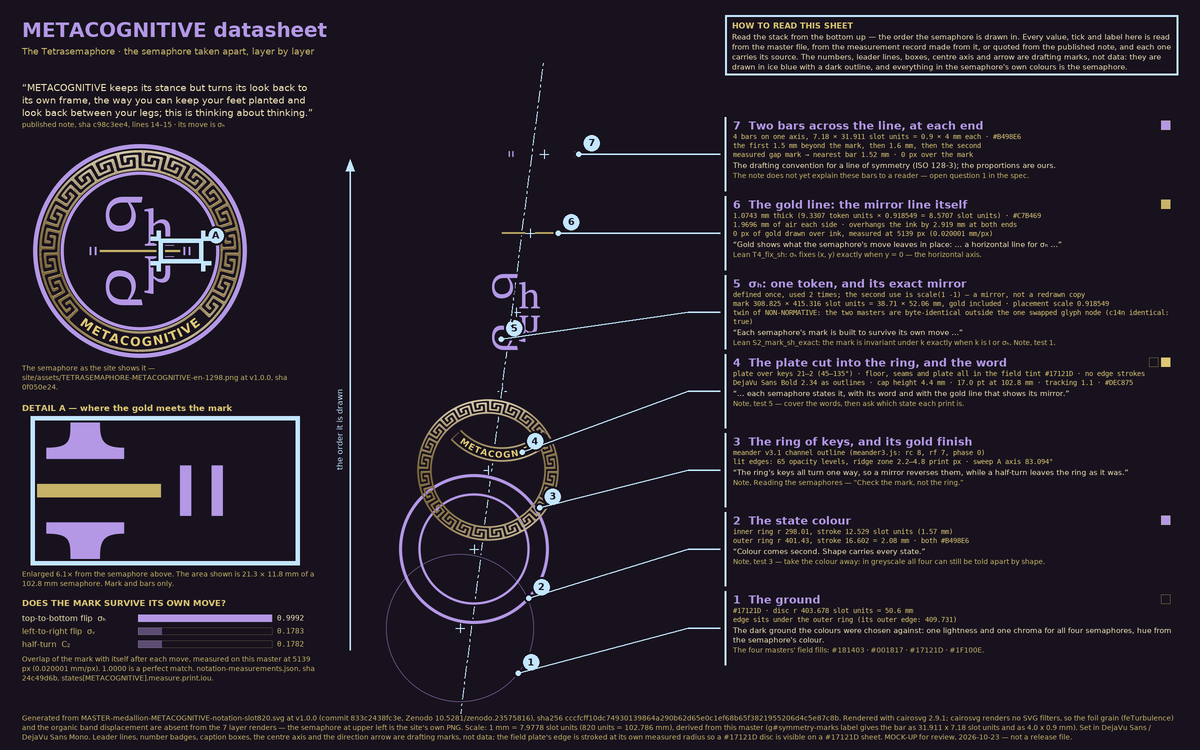
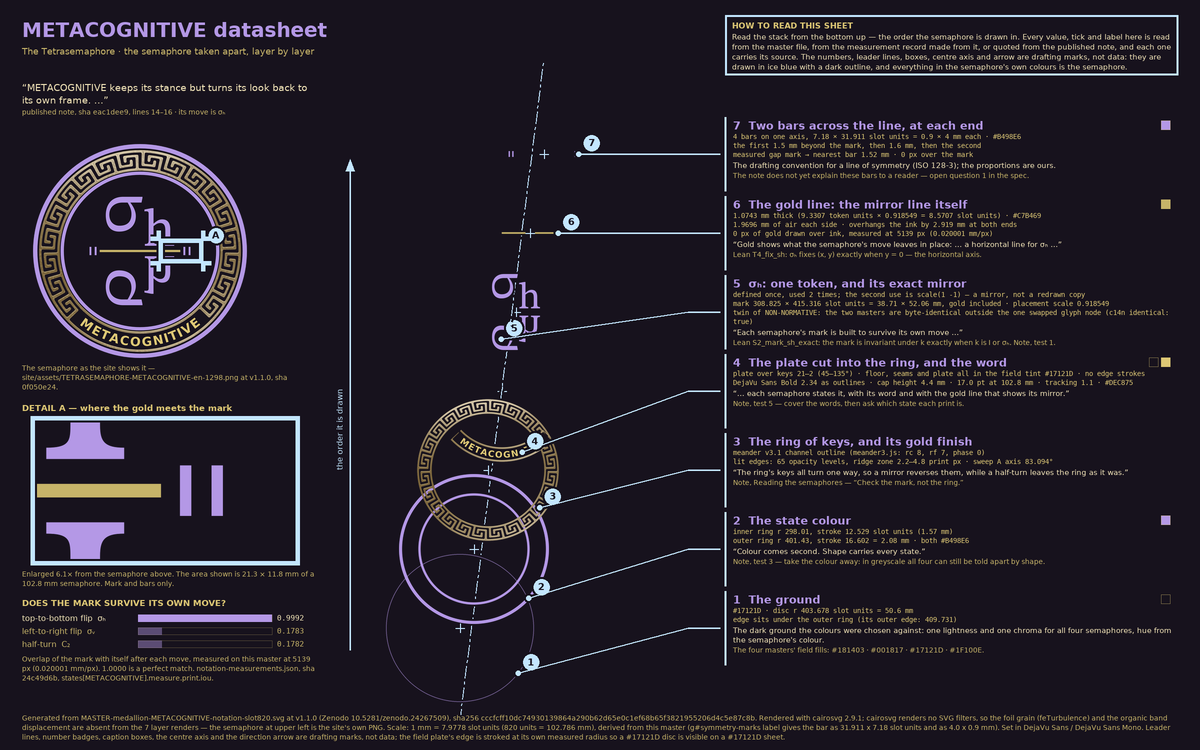
release: Tetrasemaphore 1.1.0 — three approved lines, four datasheets, toolchain
The three body-route lines Carey approved on 6 November, applied to README.md,
site/index.html and site/note.html. The audit behind them: across the three
deployed pages 29 sentences put a body in motion and none claimed a benefit from
the movement, so nothing was faddish — but the routes offered were body 29,
paper and print 27, mind 3, and the only sentence naming the mind put it second.

The METACOGNITIVE sentence no longer ends "this is thinking about thinking",
whose "this" could be read as making the posture itself the cognitive act.

The four datasheets rebuilt against the changed note and installed as release
files: 116 strings provenance-checked with no faults, 29 quotation spans with no
punctuation faults, no text overlaps, nothing outside the canvas.

The METACOGNITIVE standfirst is elided on the sheet and whole in the record, as
DATASHEET_SPEC.md section 2 requires and as Carey ruled ("short on the sheet,
full in the record"). The gate is unchanged: the unelided sentence is what is
looked up in the published note and the build still stops if it is absent. The
audit JSON carries both, under text and unelided.

A sheet now calls itself a release file only when it carries a release DOI, and
prints the mock-up line otherwise, so the claim cannot be made before it is true.

Generation dates are labelled (UTC), because the repository dates releases by
the Los Angeles day: 1.0.0's Zenodo record was created 2026-10-23T02:12:31Z,
[…]

Changed region(s): [[0.0308, 0.9507, 0.9867, 1.0], [0.0308, 0.1227, 0.2467, 0.184]]

diff --git a/site/index.html b/site/index.html
@@ -384,12 +384,12 @@ table.cay th{color:var(--gold);font-weight:400}
   <h2>The Tetrasemaphore in one paragraph</h2>
   <p class="lede">The Tetrasemaphore is four semaphores that mark how a piece of work stands: <strong>NORMATIVE</strong>, <strong>NON-NORMATIVE</strong>, <strong>METACOGNITIVE</strong> or <strong>CRITICAL</strong>. Each state is a move of a flat picture, and each semaphore carries a mark built to survive its own move, written in the symbols chemists and mathematicians already use for symmetry. Every claim it makes can be checked with your body, a pen and paper, a phone, a printer, a proof checker or a friend, and the one question still open, whether it helps people think about their thinking, can be tested.</p>
   <p class="aim">The aim of the whole project is to point at some mathematics that was always there, for each reader to check for themselves and think with. It asks no one to take on or give up a belief.</p>
-  <p>People picked up the abacus, then the calculator. Some abacus users learned to put it down and move the beads in their heads. The four moves are meant to be learned the same way: first with your body or a scrap of paper, then in your mind. Whether that helps is what the tests are for.</p>
+  <p>People picked up the abacus, then the calculator. Some abacus users learned to put it down and move the beads in their heads. The four moves can be learned in your mind, with a scrap of paper, or with your body, and most people end up using all three. Whichever you start with, the other two are how you check it. Whether that helps is what the tests are for.</p>
 </section>
 
 <section id="what-it-is">
   <h2>What it is</h2>
-  <p>The Tetrasemaphore is an attempt to teach people to think about their thinking. It asks two yes-or-no questions of any piece of thinking. Is it looking at its object, or back at its own frame: the premises, method and assumptions it judges from? And does it keep its stance toward the standard, or reverse that stance, the way a mirror reverses left and right? Two yes-or-no questions have exactly four answers. <strong>NORMATIVE</strong> keeps its stance and looks at its object: what has been tested and holds, for now. <strong>NON-NORMATIVE</strong> mirrors its stance and looks at its object: exploration that stands alongside the standard without claiming to replace it. <strong>METACOGNITIVE</strong> keeps its stance but turns its look back to its own frame, the way you can keep your feet planted and look back between your legs; this is thinking about thinking. <strong>CRITICAL</strong> does both at once: it turns over the framework a claim rests on, treating every baseline assumption as possibly wrong. The Tetrasemaphore proposes holding two questions about any piece of thinking as two mirrors at a right angle, so that changing your stance or your focus becomes a move you can see, make and undo. In a flat picture the same four answers are four moves: leave it alone (I), flip it left to right (&sigma;&#7525;), flip it top to bottom (&sigma;&#8341;), or turn it half way round (C&#8322;), which is both flips at once. NORMATIVE is <code>I</code>, NON-NORMATIVE is <code>&sigma;&#7525;</code>, METACOGNITIVE is <code>&sigma;&#8341;</code> and CRITICAL is <code>C&#8322;</code>. The moves and their symbols were part of mathematics long before this project, and the semaphores point at them. That's what we do when we discover math: honor finally what is. Psychology has met this structure before: Jean Piaget held that formal reasoning uses four transformations that combine exactly as these four moves do (his INRC group; Inhelder &amp; Piaget 1958). Each semaphore's mark is built to survive its own move: the <code>&sigma;&#7525;</code> mark only the left-right flip, the <code>&sigma;&#8341;</code> mark only the top-bottom flip, the <code>C&#8322;</code> mark only the half-turn, and the <code>I</code> mark, whose move changes nothing, every move.</p>
+  <p>The Tetrasemaphore is an attempt to teach people to think about their thinking. It asks two yes-or-no questions of any piece of thinking. Is it looking at its object, or back at its own frame: the premises, method and assumptions it judges from? And does it keep its stance toward the standard, or reverse that stance, the way a mirror reverses left and right? Two yes-or-no questions have exactly four answers. <strong>NORMATIVE</strong> keeps its stance and looks at its object: what has been tested and holds, for now. <strong>NON-NORMATIVE</strong> mirrors its stance and looks at its object: exploration that stands alongside the standard without claiming to replace it. <strong>METACOGNITIVE</strong> keeps its stance but turns its look back to its own frame. You can picture that, or keep your feet planted and look back between your legs; the move is the same either way, and the move is what thinking about thinking means here. <strong>CRITICAL</strong> does both at once: it turns over the framework a claim rests on, treating every baseline assumption as possibly wrong. The Tetrasemaphore proposes holding two questions about any piece of thinking as two mirrors at a right angle, so that changing your stance or your focus becomes a move you can see, make and undo. In a flat picture the same four answers are four moves: leave it alone (I), flip it left to right (&sigma;&#7525;), flip it top to bottom (&sigma;&#8341;), or turn it half way round (C&#8322;), which is both flips at once. NORMATIVE is <code>I</code>, NON-NORMATIVE is <code>&sigma;&#7525;</code>, METACOGNITIVE is <code>&sigma;&#8341;</code> and CRITICAL is <code>C&#8322;</code>. The moves and their symbols were part of mathematics long before this project, and the semaphores point at them. That's what we do when we discover math: honor finally what is. Psychology has met this structure before: Jean Piaget held that formal reasoning uses four transformations that combine exactly as these four moves do (his INRC group; Inhelder &amp; Piaget 1958). Each semaphore's mark is built to survive its own move: the <code>&sigma;&#7525;</code> mark only the left-right flip, the <code>&sigma;&#8341;</code> mark only the top-bottom flip, the <code>C&#8322;</code> mark only the half-turn, and the <code>I</code> mark, whose move changes nothing, every move.</p>
   <p>The semaphores are for naming the state of your own thinking, not for labelling anyone else's. That doesn't mean people can't be read: we read each other every day, better than chance for some things and only barely for others, such as lies, and we misread ourselves too. What turns either kind of reading into a measurement is knowing how often it is wrong. This starts with you, and it is meant for everyone.</p>
   <details class="sources-fold">
     <summary>Sources for this section</summary>
@@ -466,7 +466,7 @@ table.cay th{color:var(--gold);font-weight:400}
 
 <section id="how-to-test-it">
   <h2>How to test it</h2>
-  <p>Every claim here can be checked by someone who does not trust us. Each check below says what it needs, and the first two need nothing but your body, or a pen and a scrap of paper. If turning or bending is hard, the pen-and-paper check makes the same moves. <strong>With your body:</strong> have someone stand in front of you and watch your head. Stand as you are, and nothing changes (I). Turn around: to them, your left and right swap, and your top stays on top (&sigma;&#7525;). Face them, bend over and look between your legs: your top and bottom swap, and your left and right stay put (&sigma;&#8341;). A handstand is the same move. Turn around, then look between your legs: both swap, and you are looking back at where you started, upside down (C&#8322;). Each move is its own way back, and any two of the last three make the other. The two moves are the two questions, done with the body: turning around reverses the way you face, as NON-NORMATIVE reverses its stance toward the standard, and looking back between your legs turns your view away from what is in front of you and back past yourself, as METACOGNITIVE turns from its object back to its own frame. <strong>With a pen and paper:</strong> write the letters <code>I</code>, <code>A</code>, <code>D</code> and <code>N</code> in block capitals, hold the page up to a window, and turn it over side to side, then top to bottom, then spin it half way round, each time from the start. <code>I</code> survives every move, <code>A</code> only the side-to-side turn, <code>D</code> only the top-to-bottom turn, and <code>N</code> only the half-turn: the same four as the semaphores. <strong>With a printer or a phone:</strong> <a href="#coins">print the semaphores</a> or open them on a screen, look only at the mark in the middle, and flip and turn each one. Switch the screen to greyscale, and the four still differ by shape alone. <strong>With a computer:</strong> the algebra is machine-checked in the <a href="https://github.com/IT-Help-San-Diego/tetrasemaphore/tree/main/proofs">Lean proof assistant</a>, with a script that runs under bash, wherever Lean is installed, and a report on what the proofs cover and what they do not: they cover the algebra, not the artwork. <strong>With another person:</strong> this is the test that matters most. Teach someone the rule, that each mark survives its own move, in five minutes; then show them prints flipped or turned at random, or make the four moves with your body in a random order, and ask which state each one is. Guessing gets one in four right, so if people who have just learned the rule do little better, the system does not teach, whatever the mathematics says. Whether the semaphores help people think about their thinking is the open question, and these tests are how to find out. The details follow.</p>
+  <p>Every claim here can be checked by someone who does not trust us. Each check below says what it needs. You can run any of them in your head: picture the mark, picture the move, and see whether anything changed. The body and the paper are here because imagination is easy to fool, and turning a real card over settles what picturing it only suggests. If turning or bending is hard, the pen-and-paper check makes the same moves. <strong>With your body:</strong> have someone stand in front of you and watch your head. Stand as you are, and nothing changes (I). Turn around: to them, your left and right swap, and your top stays on top (&sigma;&#7525;). Face them, bend over and look between your legs: your top and bottom swap, and your left and right stay put (&sigma;&#8341;). A handstand is the same move. Turn around, then look between your legs: both swap, and you are looking back at where you started, upside down (C&#8322;). Each move is its own way back, and any two of the last three make the other. The two moves are the two questions, done with the body: turning around reverses the way you face, as NON-NORMATIVE reverses its stance toward the standard, and looking back between your legs turns your view away from what is in front of you and back past yourself, as METACOGNITIVE turns from its object back to its own frame. <strong>With a pen and paper:</strong> write the letters <code>I</code>, <code>A</code>, <code>D</code> and <code>N</code> in block capitals, hold the page up to a window, and turn it over side to side, then top to bottom, then spin it half way round, each time from the start. <code>I</code> survives every move, <code>A</code> only the side-to-side turn, <code>D</code> only the top-to-bottom turn, and <code>N</code> only the half-turn: the same four as the semaphores. <strong>With a printer or a phone:</strong> <a href="#coins">print the semaphores</a> or open them on a screen, look only at the mark in the middle, and flip and turn each one. Switch the screen to greyscale, and the four still differ by shape alone. <strong>With a computer:</strong> the algebra is machine-checked in the <a href="https://github.com/IT-Help-San-Diego/tetrasemaphore/tree/main/proofs">Lean proof assistant</a>, with a script that runs under bash, wherever Lean is installed, and a report on what the proofs cover and what they do not: they cover the algebra, not the artwork. <strong>With another person:</strong> this is the test that matters most. Teach someone the rule, that each mark survives its own move, in five minutes; then show them prints flipped or turned at random, or make the four moves with your body in a random order, and ask which state each one is. Guessing gets one in four right, so if people who have just learned the rule do little better, the system does not teach, whatever the mathematics says. Whether the semaphores help people think about their thinking is the open question, and these tests are how to find out. The details follow.</p>
   <p><strong>What the tests are for.</strong> The moves are made with the body on purpose. The working hypothesis, untested, is that a move learned together with one of the four states can later serve as a cue to stop and check, a way out of a line of thinking, and that with practice it can shrink to a small gesture or a thought. Try the four your own way first: people learn differently, and some may find uses no one here has thought of. Testing it properly needs people who have not read this note, their consent and an ethics review, and it needs funding this project does not have. The <a href="https://github.com/IT-Help-San-Diego/tetrasemaphore/blob/v1.0.0/record/test-register.md">test register</a> sets out how to run it, and what is known for and against the idea, for anyone who can.</p>
   <p><a href="/method.html">Read the method, the tests in detail, and the challenges to put to it &rarr;</a></p>
 </section>

diff --git a/site/note.html b/site/note.html
@@ -342,7 +342,7 @@ footer.site::before{
 
 <section id="what-it-is">
   <h2>What it is</h2>
-  <p>The Tetrasemaphore is an attempt to teach people to think about their thinking. It asks two yes-or-no questions of any piece of thinking. Is it looking at its object, or back at its own frame: the premises, method and assumptions it judges from? And does it keep its stance toward the standard, or reverse that stance, the way a mirror reverses left and right? Two yes-or-no questions have exactly four answers. <strong>NORMATIVE</strong> keeps its stance and looks at its object: what has been tested and holds, for now. <strong>NON-NORMATIVE</strong> mirrors its stance and looks at its object: exploration that stands alongside the standard without claiming to replace it. <strong>METACOGNITIVE</strong> keeps its stance but turns its look back to its own frame, the way you can keep your feet planted and look back between your legs; this is thinking about thinking. <strong>CRITICAL</strong> does both at once: it turns over the framework a claim rests on, treating every baseline assumption as possibly wrong. The Tetrasemaphore proposes holding two questions about any piece of thinking as two mirrors at a right angle, so that changing your stance or your focus becomes a move you can see, make and undo. In a flat picture the same four answers are four moves: leave it alone (I), flip it left to right (&sigma;&#7525;), flip it top to bottom (&sigma;&#8341;), or turn it half way round (C&#8322;), which is both flips at once. NORMATIVE is <code>I</code>, NON-NORMATIVE is <code>&sigma;&#7525;</code>, METACOGNITIVE is <code>&sigma;&#8341;</code> and CRITICAL is <code>C&#8322;</code>. The moves and their symbols were part of mathematics long before this project, and the semaphores point at them. That's what we do when we discover math: honor finally what is. Psychology has met this structure before: Jean Piaget held that formal reasoning uses four transformations that combine exactly as these four moves do (his INRC group; Inhelder &amp; Piaget 1958). Each semaphore's mark is built to survive its own move: the <code>&sigma;&#7525;</code> mark only the left-right flip, the <code>&sigma;&#8341;</code> mark only the top-bottom flip, the <code>C&#8322;</code> mark only the half-turn, and the <code>I</code> mark, whose move changes nothing, every move.</p>
+  <p>The Tetrasemaphore is an attempt to teach people to think about their thinking. It asks two yes-or-no questions of any piece of thinking. Is it looking at its object, or back at its own frame: the premises, method and assumptions it judges from? And does it keep its stance toward the standard, or reverse that stance, the way a mirror reverses left and right? Two yes-or-no questions have exactly four answers. <strong>NORMATIVE</strong> keeps its stance and looks at its object: what has been tested and holds, for now. <strong>NON-NORMATIVE</strong> mirrors its stance and looks at its object: exploration that stands alongside the standard without claiming to replace it. <strong>METACOGNITIVE</strong> keeps its stance but turns its look back to its own frame. You can picture that, or keep your feet planted and look back between your legs; the move is the same either way, and the move is what thinking about thinking means here. <strong>CRITICAL</strong> does both at once: it turns over the framework a claim rests on, treating every baseline assumption as possibly wrong. The Tetrasemaphore proposes holding two questions about any piece of thinking as two mirrors at a right angle, so that changing your stance or your focus becomes a move you can see, make and undo. In a flat picture the same four answers are four moves: leave it alone (I), flip it left to right (&sigma;&#7525;), flip it top to bottom (&sigma;&#8341;), or turn it half way round (C&#8322;), which is both flips at once. NORMATIVE is <code>I</code>, NON-NORMATIVE is <code>&sigma;&#7525;</code>, METACOGNITIVE is <code>&sigma;&#8341;</code> and CRITICAL is <code>C&#8322;</code>. The moves and their symbols were part of mathematics long before this project, and the semaphores point at them. That's what we do when we discover math: honor finally what is. Psychology has met this structure before: Jean Piaget held that formal reasoning uses four transformations that combine exactly as these four moves do (his INRC group; Inhelder &amp; Piaget 1958). Each semaphore's mark is built to survive its own move: the <code>&sigma;&#7525;</code> mark only the left-right flip, the <code>&sigma;&#8341;</code> mark only the top-bottom flip, the <code>C&#8322;</code> mark only the half-turn, and the <code>I</code> mark, whose move changes nothing, every move.</p>
   <p>The semaphores are for naming the state of your own thinking, not for labelling anyone else's. That doesn't mean people can't be read: we read each other every day, better than chance for some things and only barely for others, such as lies, and we misread ourselves too. What turns either kind of reading into a measurement is knowing how often it is wrong. This starts with you, and it is meant for everyone.</p>
   <p>Because the four answer two questions rather than belonging to one field, they can be laid over systems that already sort their claims: the binding requirements of internet standards (<a href="https://doi.org/10.17487/RFC2119">RFC 2119</a>) and their informative notes, peer review's findings and hypotheses, a security advisory's critical flag, a laboratory's calibration audit. <a href="#why-we-left-the-owl">The Owl Semaphore</a> grew out of the first of these. They are places to read the four, not the edges of what they are.</p>
   <p class="sources-head"><strong>Sources for this section</strong></p>
@@ -356,7 +356,7 @@ footer.site::before{
 
 <section id="how-to-test-it">
   <h2>How to test it</h2>
-  <p>Every claim here can be checked by someone who does not trust us. Each check below says what it needs, and the first two need nothing but your body, or a pen and a scrap of paper. If turning or bending is hard, the pen-and-paper check makes the same moves. <strong>With your body:</strong> have someone stand in front of you and watch your head. Stand as you are, and nothing changes (I). Turn around: to them, your left and right swap, and your top stays on top (&sigma;&#7525;). Face them, bend over and look between your legs: your top and bottom swap, and your left and right stay put (&sigma;&#8341;). A handstand is the same move. Turn around, then look between your legs: both swap, and you are looking back at where you started, upside down (C&#8322;). Each move is its own way back, and any two of the last three make the other. The two moves are the two questions, done with the body: turning around reverses the way you face, as NON-NORMATIVE reverses its stance toward the standard, and looking back between your legs turns your view away from what is in front of you and back past yourself, as METACOGNITIVE turns from its object back to its own frame. <strong>With a pen and paper:</strong> write the letters <code>I</code>, <code>A</code>, <code>D</code> and <code>N</code> in block capitals, hold the page up to a window, and turn it over side to side, then top to bottom, then spin it half way round, each time from the start. <code>I</code> survives every move, <code>A</code> only the side-to-side turn, <code>D</code> only the top-to-bottom turn, and <code>N</code> only the half-turn: the same four as the semaphores. <strong>With a printer or a phone:</strong> <a href="/#coins">print the semaphores</a> or open them on a screen, look only at the mark in the middle, and flip and turn each one. Switch the screen to greyscale, and the four still differ by shape alone. <strong>With a computer:</strong> the algebra is machine-checked in the <a href="https://github.com/IT-Help-San-Diego/tetrasemaphore/tree/main/proofs">Lean proof assistant</a>, with a script that runs under bash, wherever Lean is installed, and a report on what the proofs cover and what they do not: they cover the algebra, not the artwork. <strong>With another person:</strong> this is the test that matters most. Teach someone the rule, that each mark survives its own move, in five minutes; then show them prints flipped or turned at random, or make the four moves with your body in a random order, and ask which state each one is. Guessing gets one in four right, so if people who have just learned the rule do little better, the system does not teach, whatever the mathematics says. Whether the semaphores help people think about their thinking is the open question, and these tests are how to find out. The details follow.</p>
+  <p>Every claim here can be checked by someone who does not trust us. Each check below says what it needs. You can run any of them in your head: picture the mark, picture the move, and see whether anything changed. The body and the paper are here because imagination is easy to fool, and turning a real card over settles what picturing it only suggests. If turning or bending is hard, the pen-and-paper check makes the same moves. <strong>With your body:</strong> have someone stand in front of you and watch your head. Stand as you are, and nothing changes (I). Turn around: to them, your left and right swap, and your top stays on top (&sigma;&#7525;). Face them, bend over and look between your legs: your top and bottom swap, and your left and right stay put (&sigma;&#8341;). A handstand is the same move. Turn around, then look between your legs: both swap, and you are looking back at where you started, upside down (C&#8322;). Each move is its own way back, and any two of the last three make the other. The two moves are the two questions, done with the body: turning around reverses the way you face, as NON-NORMATIVE reverses its stance toward the standard, and looking back between your legs turns your view away from what is in front of you and back past yourself, as METACOGNITIVE turns from its object back to its own frame. <strong>With a pen and paper:</strong> write the letters <code>I</code>, <code>A</code>, <code>D</code> and <code>N</code> in block capitals, hold the page up to a window, and turn it over side to side, then top to bottom, then spin it half way round, each time from the start. <code>I</code> survives every move, <code>A</code> only the side-to-side turn, <code>D</code> only the top-to-bottom turn, and <code>N</code> only the half-turn: the same four as the semaphores. <strong>With a printer or a phone:</strong> <a href="/#coins">print the semaphores</a> or open them on a screen, look only at the mark in the middle, and flip and turn each one. Switch the screen to greyscale, and the four still differ by shape alone. <strong>With a computer:</strong> the algebra is machine-checked in the <a href="https://github.com/IT-Help-San-Diego/tetrasemaphore/tree/main/proofs">Lean proof assistant</a>, with a script that runs under bash, wherever Lean is installed, and a report on what the proofs cover and what they do not: they cover the algebra, not the artwork. <strong>With another person:</strong> this is the test that matters most. Teach someone the rule, that each mark survives its own move, in five minutes; then show them prints flipped or turned at random, or make the four moves with your body in a random order, and ask which state each one is. Guessing gets one in four right, so if people who have just learned the rule do little better, the system does not teach, whatever the mathematics says. Whether the semaphores help people think about their thinking is the open question, and these tests are how to find out. The details follow.</p>
   <p><strong>What the tests are for.</strong> The moves are made with the body on purpose. The working hypothesis, untested, is that a move learned together with one of the four states can later serve as a cue to stop and check, a way out of a line of thinking, and that with practice it can shrink to a small gesture or a thought. Try the four your own way first: people learn differently, and some may find uses no one here has thought of. Testing it properly needs people who have not read this note, their consent and an ethics review, and it needs funding this project does not have. The <a href="https://github.com/IT-Help-San-Diego/tetrasemaphore/blob/v1.0.0/record/test-register.md">test register</a> sets out how to run it, and what is known for and against the idea, for anyone who can.</p>
 </section>
 

diff --git a/tools/make_anatomy_plate.py b/tools/make_anatomy_plate.py
@@ -410,16 +410,29 @@ class Sources:
 # ------------------------------------------------- the note's own sentences --
 # Each entry is (text, line range in README.md at v1.0.0, sha c98c3ee4a94a3dae).
 STANDFIRST = {
+    # (shown on the sheet, looked up in the note, line range in that note). The two differ only
+    # where the sheet elides; the elision is marked \u2026 and the unelided sentence is what is
+    # verified against the note and recorded, as DATASHEET_SPEC.md section 2 requires.
     'NORMATIVE': ("NORMATIVE keeps its stance and looks at its object: what has been tested and "
+                  "holds, for now.",
+                  "NORMATIVE keeps its stance and looks at its object: what has been tested and "
                   "holds, for now.", "12\u201313"),
     'NON-NORMATIVE': ("NON-NORMATIVE mirrors its stance and looks at its object: exploration that "
+                      "stands alongside the standard without claiming to replace it.",
+                      "NON-NORMATIVE mirrors its stance and looks at its object: exploration that "
                       "stands alongside the standard without claiming to replace it.", "13\u201314"),
-    'METACOGNITIVE': ("METACOGNITIVE keeps its stance but turns its look back to its own frame, "
-                      "the way you can keep your feet planted and look back between your legs; "
-                      "this is thinking about thinking.", "14\u201315"),
+    'METACOGNITIVE': ("METACOGNITIVE keeps its stance but turns its look back to its own frame. "
+                      "\u2026",
+                      "METACOGNITIVE keeps its stance but turns its look back to its own frame. "
+                      "You can picture that, or keep your feet planted and look back between your "
+                      "legs; the move is the same either way, and the move is what thinking about "
+                      "thinking means here.", "14\u201316"),
     'CRITICAL': ("CRITICAL does both at once: it turns over the framework a claim rests on, "
-                 "treating every baseline assumption as possibly wrong.", "15\u201316"),
+                 "treating every baseline assumption as possibly wrong.",
+                 "CRITICAL does both at once: it turns over the framework a claim rests on, "
+                 "treating every baseline assumption as possibly wrong.", "16\u201317"),
 }
+
 # Each clause ends as the source does: the first three are followed by a comma in
 # the note, so the quotation stops with an ellipsis and adds no punctuation of its
 # own; C2's clause ends the sentence, so its full stop is the source's.
@@ -706,9 +719,10 @@ def compose(state, outdir='.'):
            F_SANS, 15, HI, BOX_X1 - BOX_X0 - 28, 20, 'howto')
 
     # --------------------------------------------------------- left column
-    sf_text, sf_lines = STANDFIRST[state]
-    sf_src = S.q(sf_text, sf_lines)
-    y = T.para((LEFT_X0, 164), "\u201c" + sf_text + "\u201d", F_SANS, 19, HI,
+    sf_shown, sf_quoted, sf_lines = STANDFIRST[state]
+    sf_src = S.q(sf_quoted, sf_lines)
+    sf_src['unelided'] = sf_quoted
+    y = T.para((LEFT_X0, 164), "\u201c" + sf_shown + "\u201d", F_SANS, 19, HI,
                LEFT_X1 - LEFT_X0, 25, 'standfirst')
     T.draw((LEFT_X0, y + 2),
            f"published note, sha {S.note_sha16[:8]}, {sf_src['field']} \u00b7 its move is {nota}",
@@ -894,7 +908,9 @@ def compose(state, outdir='.'):
         f"number badges, caption boxes, the centre axis and the direction arrow are drafting "
         f"marks, not data; the field plate's edge is stroked at its own measured radius so a "
         f"{GROUND} disc is visible on a {GROUND} sheet. "
-        f"MOCK-UP for review, {build_time().date().isoformat()} \u2014 not a release file.")
+        + (""   # a sheet is a release file when it carries its release citation, and not before
+           if RELEASE['doi'] else
+           f"MOCK-UP for review, {build_time().date().isoformat()} (UTC) \u2014 not a release file."))
     T.para((M, 1428), foot, F_SANS, 14, GOLD2, W - 2 * M, 19, 'footer')
 
     # ---- the drafting marks go on last, over everything they describe
@@ -1016,7 +1032,7 @@ def compose(state, outdir='.'):
 
     # ---- quotation punctuation, over every string the sheet draws
     qp_checked, qp_faults = 0, []
-    drawn = ['\u201c' + sf_text + '\u201d']      # the sheet draws the standfirst quoted
+    drawn = ['\u201c' + sf_shown + '\u201d']     # the sheet draws the standfirst quoted, elision and all
     for c in ST:
         drawn += [v['text'] for v in c['values']] + [c['meaning']['text'], c['check']['text']]
     if absent is not None:
@@ -1054,10 +1070,11 @@ def compose(state, outdir='.'):
 
     payload = dict(
         generated=build_time().isoformat(timespec='seconds'),
-        kind="MOCK-UP for review; design work for site version 1.1; writes nothing to the release",
+        kind=(f"Release file for {RELEASE['tag']}" if RELEASE['doi']
+              else "MOCK-UP for review; design work for site version 1.1; writes nothing to the release"),
         state=state, notation=nota, stations=len(ST),
         release={k: v for k, v in RELEASE.items() if v},
-        standfirst=dict(text=sf_text, **sf_src),
+        standfirst=dict(text=sf_shown, **sf_src),   # 'unelided' in sf_src carries the whole sentence
         sheet=dict(file=stem + ".png", px=list(CANVAS), ground=GROUND,
                    palette=dict(state_colour=CC, gold=GOLD, gold_fix=GOLD2, highlight=HI),
                    contrast_on_ground={k: round(contrast(v, GROUND), 2) for k, v in

diff --git a/tools/make_audit_report.py b/tools/make_audit_report.py
@@ -13,8 +13,9 @@ def build_time():
 STATES = ['NORMATIVE', 'NON-NORMATIVE', 'METACOGNITIVE', 'CRITICAL']
 P = json.load(open(f'audit_{STATES[0]}.json'))
 L = ["# Datasheet audit report", "",
-     f"Four sheets, one template. Generated {build_time().date().isoformat()}. "
-     f"MOCK-UP for review; design work for site version 1.1.", "",
+     f"Four sheets, one template. Generated {build_time().date().isoformat()} (UTC)."
+     + ("" if P['release'].get('doi') else
+        " MOCK-UP for review; design work for site version 1.1."), "",
      f"Sources, all read from the published tree at `{P['release']['tag']}`"
      + ((' (' + ', '.join(p for p in ((f"commit `{P['release']['commit'][:12]}`" if P['release'].get('commit') else ''),
                                         (f"Zenodo {P['release']['doi']}" if P['release'].get('doi') else '')) if p) + ')')

diff --git a/docs/AUDIT_REPORT.md b/docs/AUDIT_REPORT.md
@@ -1,12 +1,12 @@
 # Datasheet audit report
 
-Four sheets, one template. Generated 2026-10-23. MOCK-UP for review; design work for site version 1.1.
+Four sheets, one template. Generated 2026-11-16 (UTC).
 
-Sources, all read from the published tree at `v1.0.0` (commit `833c2438fc3e`, Zenodo 10.5281/zenodo.23575816):
+Sources, all read from the published tree at `v1.1.0` (Zenodo 10.5281/zenodo.24267509):
 
-- published note: `README.md at v1.0.0`, sha256 `c98c3ee4a94a3dae`
+- published note: `README.md at v1.1.0`, sha256 `eac1dee95aa6a61b`
 - measurement record: `notation-measurements.json`, sha16 `24c49d6bafacdaf5`
-- proofs: `proofs/TetrasemaphoreAlgebra.lean at v1.0.0`, sha16 `f066faf6595d22e9`
+- proofs: `proofs/TetrasemaphoreAlgebra.lean at v1.1.0`, sha16 `f066faf6595d22e9`
 - masters and site assets: per sheet, below.
 
 ## Totals
@@ -25,7 +25,7 @@ Every cited string — quotation and pointer alike — is looked up in the publi
 
 ## Every quotation, by sheet
 
-Line numbers are in the published note, sha256 `c98c3ee4a94a3dae`.
+Line numbers are in the published note, sha256 `eac1dee95aa6a61b`.
 
 ### NORMATIVE
 
@@ -63,7 +63,7 @@ Master: `MASTER-medallion-NON-NORMATIVE-notation-slot820.svg`, sha256 `4ef1de6ae
 
 | station | text on the sheet | lines | kind |
 |---|---|---|---|
-| standfirst | “METACOGNITIVE keeps its stance but turns its look back to its own frame, the way you can keep your feet planted and look back between your legs; this is thinking about thinking.” | 14–15 | quote |
+| standfirst | “METACOGNITIVE keeps its stance but turns its look back to its own frame. …” | 14–16 | quote |
 | 2 rings | “Colour comes second. Shape carries every state.” | 100 | quote |
 | 2 rings | Note, test 3 — take the colour away: in greyscale all four can still be told apart by shape. | 122 | pointer, paraphrased |
 | 3 meander | “The ring's keys all turn one way, so a mirror reverses them, while a half-turn leaves the ring as it was.” | 91 | quote |
@@ -79,7 +79,7 @@ Master: `MASTER-medallion-METACOGNITIVE-notation-slot820.svg`, sha256 `cccfcff10
 
 | station | text on the sheet | lines | kind |
 |---|---|---|---|
-| standfirst | “CRITICAL does both at once: it turns over the framework a claim rests on, treating every baseline assumption as possibly wrong.” | 15–16 | quote |
+| standfirst | “CRITICAL does both at once: it turns over the framework a claim rests on, treating every baseline assumption as possibly wrong.” | 16–17 | quote |
 | 2 rings | “Colour comes second. Shape carries every state.” | 100 | quote |
 | 2 rings | Note, test 3 — take the colour away: in greyscale all four can still be told apart by shape. | 122 | pointer, paraphrased |
 | 3 meander | “The ring's keys all turn one way, so a mirror reverses them, while a half-turn leaves the ring as it was.” | 91 | quote |
@@ -169,10 +169,10 @@ Line weights, px at 2400 px wide (halo adds 4 px each side):
 
 | sheet | art line in the window region (p10 / median / max, px) | window core | window with halo | marks over art: min contrast | median | px below 3:1 | axis px over art | art px under a halo |
 |---|---|---|---|---|---|---|---|---|
-| NORMATIVE | 4.0 / 6.0 / 10.0 | 9 | 17 | 1.0:1 vs `#F9E084` | 3.37:1 | 2179 of 45758 | 0 of 1248 | 2357 |
-| NON-NORMATIVE | 4.0 / 6.0 / 6.0 | 9 | 17 | 1.04:1 vs `#F7DC80` | 3.32:1 | 1505 of 41470 | 0 of 1551 | 1553 |
-| METACOGNITIVE | 4.0 / 6.0 / 12.0 | 9 | 17 | 1.04:1 vs `#F5DD7F` | 3.58:1 | 2610 of 48248 | 0 of 1449 | 2714 |
-| CRITICAL | 4.0 / 8.0 / 12.65 | 9 | 17 | 1.0:1 vs `#F8E183` | 3.82:1 | 4093 of 45847 | 0 of 1231 | 3189 |
+| NORMATIVE | 4.0 / 6.0 / 10.0 | 9 | 17 | 1.0:1 vs `#F9E084` | 3.37:1 | 2179 of 45754 | 0 of 1244 | 2357 |
+| NON-NORMATIVE | 4.0 / 6.0 / 6.0 | 9 | 17 | 1.04:1 vs `#F7DC80` | 3.32:1 | 1505 of 41471 | 0 of 1552 | 1553 |
+| METACOGNITIVE | 4.0 / 6.0 / 12.0 | 9 | 17 | 1.04:1 vs `#F5DD7F` | 3.58:1 | 2610 of 48252 | 0 of 1453 | 2714 |
+| CRITICAL | 4.0 / 8.0 / 12.65 | 9 | 17 | 1.0:1 vs `#F8E183` | 3.82:1 | 4093 of 45849 | 0 of 1233 | 3189 |
 
 The art-line figures are measured on the reference semaphore at 428 px, the scale the detail window is drawn at. Comparison, computed from the rows above rather than asserted: the 9 px core is heavier than the median art line on 4 of the 4 sheets (widest median 8.0 px, CRITICAL); the 17 px assembly, core plus halo both sides, is heavier than the thickest single art stroke on 4 of the 4 (thickest 12.65 px, CRITICAL). The marks-over-art columns are the worst case where a mark crosses the lightest gold and cream: the ground halo carries the separation there, at the ground contrast above.
 

diff --git a/README.md b/README.md
@@ -12,16 +12,16 @@ it looking at its object, or back at its own frame: the premises, method and ass
 the standard, or reverse that stance, the way a mirror reverses left and right? Two yes-or-no questions have exactly four answers. NORMATIVE
 keeps its stance and looks at its object: what has been tested and holds, for now. NON-NORMATIVE mirrors its stance and looks at its object:
 exploration that stands alongside the standard without claiming to replace it. METACOGNITIVE keeps its stance but turns its look back to its
-own frame, the way you can keep your feet planted and look back between your legs; this is thinking about thinking. CRITICAL does both at
-once: it turns over the framework a claim rests on, treating every baseline assumption as possibly wrong. The Tetrasemaphore proposes
-holding two questions about any piece of thinking as two mirrors at a right angle, so that changing your stance or your focus becomes a move
-you can see, make and undo. In a flat picture the same four answers are four moves: leave it alone (I), flip it left to right (σᵥ), flip it
-top to bottom (σₕ), or turn it half way round (C₂), which is both flips at once. NORMATIVE is I, NON-NORMATIVE is σᵥ, METACOGNITIVE is σₕ
-and CRITICAL is C₂. The moves and their symbols were part of mathematics long before this project, and the semaphores point at them. That's
-what we do when we discover math: honor finally what is. Psychology has met this structure before: Jean Piaget held that formal reasoning
-uses four transformations that combine exactly as these four moves do (his INRC group; Inhelder & Piaget 1958). Each semaphore's mark is
-built to survive its own move: the σᵥ mark only the left-right flip, the σₕ mark only the top-bottom flip, the C₂ mark only the half-turn,
-and the I mark, whose move changes nothing, every move.
+own frame. You can picture that, or keep your feet planted and look back between your legs; the move is the same either way, and the move is
+what thinking about thinking means here. CRITICAL does both at once: it turns over the framework a claim rests on, treating every baseline
+assumption as possibly wrong. The Tetrasemaphore proposes holding two questions about any piece of thinking as two mirrors at a right angle,
+so that changing your stance or your focus becomes a move you can see, make and undo. In a flat picture the same four answers are four
+moves: leave it alone (I), flip it left to right (σᵥ), flip it top to bottom (σₕ), or turn it half way round (C₂), which is both flips at
+once. NORMATIVE is I, NON-NORMATIVE is σᵥ, METACOGNITIVE is σₕ and CRITICAL is C₂. The moves and their symbols were part of mathematics long
+before this project, and the semaphores point at them. That's what we do when we discover math: honor finally what is. Psychology has met
+this structure before: Jean Piaget held that formal reasoning uses four transformations that combine exactly as these four moves do (his
+INRC group; Inhelder & Piaget 1958). Each semaphore's mark is built to survive its own move: the σᵥ mark only the left-right flip, the σₕ
+mark only the top-bottom flip, the C₂ mark only the half-turn, and the I mark, whose move changes nothing, every move.
 
 The semaphores are for naming the state of your own thinking, not for labelling anyone else's. That doesn't mean people can't be read: we
 read each other every day, better than chance for some things and only barely for others, such as lies, and we misread ourselves too. What

diff --git a/CHANGELOG.md b/CHANGELOG.md
@@ -1,5 +1,14 @@
 # Changelog
 
+## [1.1.0] — 2026-11-15
+
+Version DOI `10.5281/zenodo.24267509` (concept DOI `10.5281/zenodo.23575814`, which always resolves to the latest version). Continues 1.0.0 (`10.5281/zenodo.23575816`), which stays published and citable.
+
+- **Three text lines (`README.md`, `site/index.html`, `site/note.html`):** Approved by Carey James Balboa on 6 November 2026 after an audit of how the deployed text routes a reader. Across the three deployed pages, 29 sentences put a body in motion and none claimed a benefit from the movement, so nothing was faddish; but the routes offered were body 29, paper and print 27, mind 3, and the only sentence naming the mind put it second. The body was not pushy, it was standing alone, which made it look required. The checks introduction now names running a check in your head first and says why the physical routes exist — imagination is easy to fool, and turning a real card over settles what picturing it only suggests. The sentence on how the four moves are learned no longer prescribes an order. The METACOGNITIVE sentence no longer ends "this is thinking about thinking", whose "this" could be read as making the posture itself the cognitive act; the meaning is now attached to the move, which is what the algebra defines.
+- **Datasheet toolchain (`tools/`, `docs/DATASHEET_SPEC.md`):** `build_datasheets.py`, `make_anatomy_plate.py`, `make_audit_report.py`, `measure_drafting.py`, `choose_drafting_colour.py` and `drafting_measurements.json`, with the pinned build environment in `tools/datasheets-environment/`. The driver stages its inputs from the release the sheets cite (`git show <tag>:<path>`), so a sheet provably quotes the note it names, and `--verify` proves a clean checkout regenerates the committed sheets byte for byte.
+- **Four datasheets, as release files (`site/assets/datasheet_*.png`, `docs/datasheet-audit/`, `docs/AUDIT_REPORT.md`):** One sheet per semaphore, 2400 × 1500 with a 1200 px preview, built to `docs/DATASHEET_SPEC.md`. Every cited string is looked up in the published note before anything is drawn and every Lean name in the published proof file: 116 strings provenance-checked with no faults, 29 quotation spans with no punctuation faults, no text overlaps and nothing outside the canvas. A sheet now identifies itself as a release file only when it carries a release DOI, and prints "MOCK-UP for review — not a release file" otherwise, so the claim cannot be made before it is true.
+- **Standfirst elision (`tools/make_anatomy_plate.py`):** The METACOGNITIVE sheet quotes the first sentence of its note entry and marks the elision, as `DATASHEET_SPEC.md` §2 requires. The gate is unchanged: the **unelided** sentence is what is looked up in the note, and the build still stops if it is absent; only what is drawn is short. The audit JSON records both, under `text` and `unelided`.
+
 ## [1.0.0] — 2026-10-22
 
 First public release of the Tetrasemaphore (`https://tetrasemaphore.systems/`, version DOI `10.5281/zenodo.23575816`, concept DOI `10.5281/zenodo.23575814`). Continues the Owl Semaphore Badge System (concept DOI `10.5281/zenodo.19473697`, `v3.0.1` DOI `10.5281/zenodo.21524422`), which stays published and citable under its own name.
